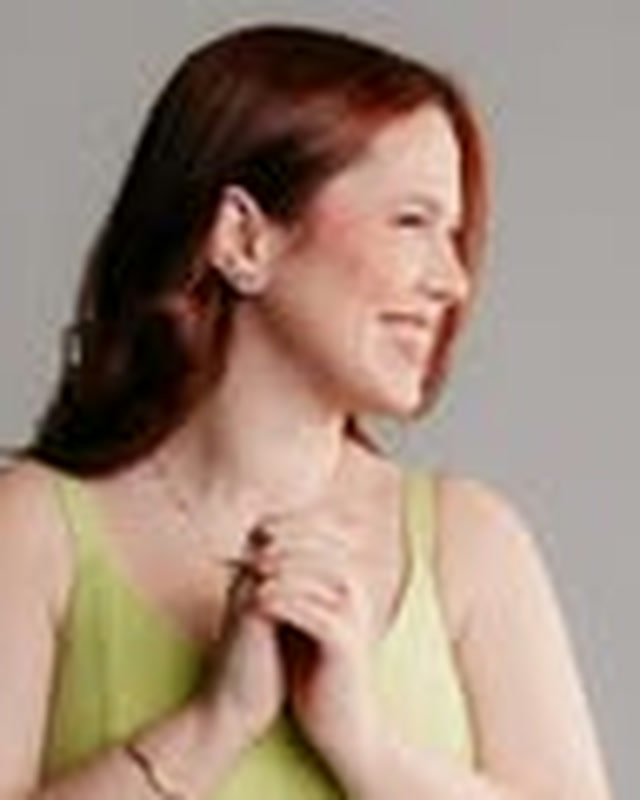
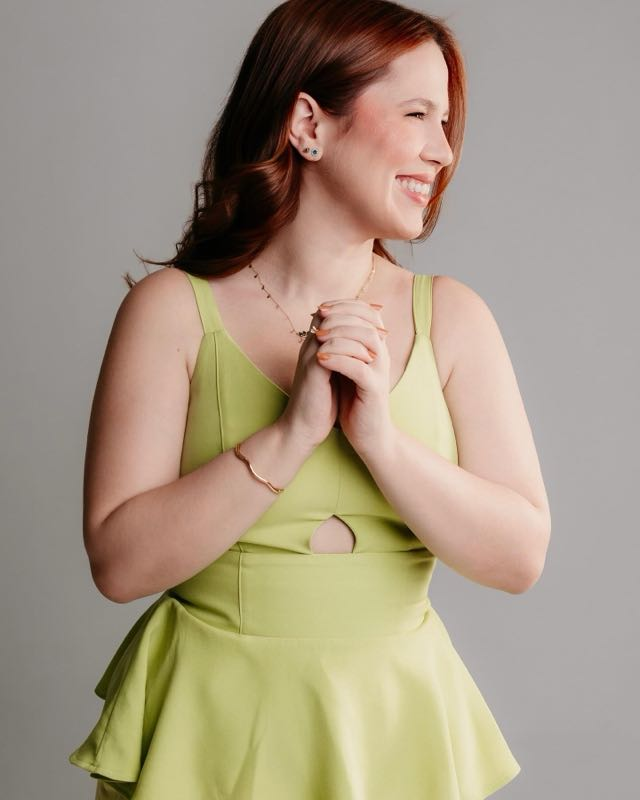
feat: fotos de professores do lote out/26 e novo corpo docente da /reforma-tributaria
Preenche os 8 photoSrc pendentes em dispensa-out26, camara-out26,
comunicacao-out26 e frotas-out26 (fotos que o repositório não tinha, lacuna
registrada no PR do lote de 16/09). Adiciona Willyan Charles de Campos como
3º professor da dispensa-out26 (grid volta ao default de 3 colunas, sem
override em theme.css). Cria a seção "Quem ensina" da /reforma-tributaria
com os 3 professores agora confirmados (Daniel Maurício, Janete Probst
Munhoz, Willian Batista de Oliveira) e corrige a FAQ, que ainda dizia que o
corpo docente estava "em confirmação". Troca a foto da Mayara em /portal
pela versão em resolução real (a anterior era uma ampliação de 150×150).

Nilson e Marcus não foram alterados. Bios de Willyan/Daniel/Janete/Willian
condensadas dos currículos completos enviados pelo Gustavo, sem nenhum fato
fora da fonte.

diff --git a/app/reforma-tributaria/content.tsx b/app/reforma-tributaria/content.tsx
@@ -43,7 +43,14 @@ import Kw from "@/components/lp2/Kw";
    slide de IBS/ICMS (hero-sede.jpg). Hero (texto), datas, reviews, "Como seu
    órgão contrata", FAQ, formId, paginaOrigem e campos do formulário NÃO
    mudaram. `speakers` continua ausente: não há fonte com os professores
-   desta turma. */
+   desta turma.
+
+   ATUALIZAÇÃO DE 17/09/2026: 3 professores confirmados (currículos colados
+   pelo Gustavo) — `speakers` entrou e a FAQ pergunta 1 foi corrigida (ver os
+   comentários datados mais abaixo). Isso também criou public/reforma-
+   tributaria/palestrantes/ — a primeira pasta namespaced desta rota; os
+   assets de ambiente (hero, CTA, galeria) continuam em public/reforma/ por
+   decisão do Gustavo de 03/09/2026, sem mudança. */
 
 /* Os 12 itens da tabela de preços, na ordem do print de 11/09/2026. Os três
    vetores dizem o que cada plano inclui — servem aos cards E à tabela, para as
@@ -253,9 +260,42 @@ export const reformaTributariaContent: EventLpContent = {
     ],
   },
 
-  /* quote / speakers / gallery: desligadas. Sem corpo docente definido — o
-     briefing proíbe explicitamente criar um placeholder de "Quem ensina"
-     (decisão registrada na FAQ, pergunta 1). */
+  /* quote: desligada — sem fonte no briefing.
+
+     speakers (17/09/2026): o briefing original proibia criar um placeholder
+     de "Quem ensina" sem corpo docente confirmado (a FAQ, pergunta 1, dizia
+     "em confirmação"). O Gustavo colou nesta data os currículos de 3
+     professores confirmados (Daniel Maurício, Janete Probst Munhoz e Willian
+     Batista de Oliveira) com as fotos — a seção entra, e a FAQ foi corrigida
+     junto. Bios condensadas no mesmo estilo das outras LPs (instituição em
+     caixa alta · cargo, 2–4 frases de credenciais), sem nenhum fato fora do
+     currículo colado; nenhum dos três tem horas de aula/avaliação Unyflex
+     informadas, por isso essa frase final fica de fora (mesmo padrão da
+     Uanilla em /comunicacao-out26). 3 professores → grid default de 3
+     colunas, sem override em theme.css (mesmo caso de /camara-out26). */
+  speakers: {
+    title: "Quem ensina já fiscaliza e arrecada o tributo que você vai apurar",
+    items: [
+      {
+        name: "Daniel Maurício",
+        institution: "AUDITOR DE TRIBUTOS MUNICIPAIS · PREFEITURA MUNICIPAL DE CURITIBA",
+        photoSrc: "/reforma-tributaria/palestrantes/daniel-mauricio.jpg",
+        bio: "Auditor de Tributos Municipais da Secretaria Municipal de Finanças da Prefeitura Municipal de Curitiba; já foi Diretor do Departamento de Rendas Mobiliárias da mesma secretaria. Graduado em Letras (UFPR), Administração de Empresas (FESP) e Direito (FARESC), com pós-graduações em Gestão Administrativa e Tributária, Gestão de Pessoas e Qualidade no Setor Público e Gestão Pública de Tecnologia da Informação. Integrou o Conselho de Recursos Tributários, a Junta de Julgamento Tributário da Prefeitura de Curitiba e a Câmara Técnica Permanente da ABRASF.",
+      },
+      {
+        name: "Janete Probst Munhoz",
+        institution: "COORDENADORA DE EAD E PÓS-GRADUAÇÃO · CENTRO UNIVERSITÁRIO UNIGUAIRACÁ",
+        photoSrc: "/reforma-tributaria/palestrantes/janete-probst-munhoz.jpg",
+        bio: "Doutora em Administração pela Universidade Positivo (2021), com pesquisa em compras públicas municipais na área da saúde, e mestre em Desenvolvimento Econômico pela UFPR (2009). Especialista em Direito Tributário (AVM Faculdade Integrada) e em Metodologia e Didática do Ensino Superior (UNIVALE), com MBA em Gestão do Conhecimento na Educação Superior (Uniguairacá). Foi Diretora do Departamento de Receita da Prefeitura Municipal de Guarapuava (1997–2004), onde coordenou a modernização dos códigos tributário e de postura; hoje é sócia-administradora da Munhoz Consultoria e Assessoria, com projetos em gestão tributária e finanças públicas municipais.",
+      },
+      {
+        name: "Willian Batista de Oliveira",
+        institution: "AUDITOR FISCAL DE TRIBUTOS MUNICIPAIS · PREFEITURA MUNICIPAL DE CURITIBA",
+        photoSrc: "/reforma-tributaria/palestrantes/willian-batista-de-oliveira.jpg",
+        bio: "Auditor Fiscal de Tributos Municipais na Prefeitura Municipal de Curitiba e gerente de Fiscalização do Departamento de Rendas Mobiliárias (ISS). Mestre em Planejamento e Governança Pública (UTFPR) e em Administração Autárquica (Instituto Politécnico de Bragança, Portugal); pós-graduado em Administração Pública e em Auditoria e Controladoria (Unicesumar). Membro do Conselho Municipal de Contribuintes e suplente na Câmara Técnica Permanente da ABRASF; professor na Especialização em Direito Administrativo da UENP/PR e instrutor de formação de auditores fiscais municipais.",
+      },
+    ],
+  },
 
   /* Galeria (16/09/2026, pedido do Bruno: mais fotos da sede). Doze fotos
      reais já no repositório, reprocessadas a 1000px: sala de aula da sede
@@ -496,7 +536,7 @@ export const reformaTributariaContent: EventLpContent = {
     items: [
       {
         q: "Quem são os professores?",
-        a: "O corpo docente da turma está em confirmação e será publicado nesta página. A programação já está fechada; ao receber a proposta, o consultor informa os nomes assim que confirmados.",
+        a: "Daniel Maurício, Janete Probst Munhoz e Willian Batista de Oliveira — as bios completas estão na seção \"Quem ensina\" desta página.",
       },
       {
         q: "A reforma só vale em 2033. Por que fazer o curso agora?",

diff --git a/app/comunicacao-out26/content.tsx b/app/comunicacao-out26/content.tsx
@@ -331,8 +331,9 @@ export const comunicacaoOut26Content: EventLpContent = {
 
   /* Palestrantes em destaque, ANTES da programação (placement). Os três são
      de Câmara, Prefeitura e eventos do setor — é o argumento do seminário.
-     Nenhum tem foto no repositório → monograma (lacuna registrada na PR).
-     Uanilla: sem nota e sem horas (base de 3 h no documento). */
+     Fotos dos três no repositório desde 17/09/2026 (antes ficavam com o
+     monograma — lacuna registrada na PR). Uanilla: sem nota e sem horas
+     (base de 3 h no documento). */
   speakers: {
     title: "Quem ensina faz comunicação pública todo dia",
     lead: "Câmara Municipal, Prefeitura e os maiores eventos de contratações públicas do país: os três palestrantes operam o que ensinam.",
@@ -341,19 +342,19 @@ export const comunicacaoOut26Content: EventLpContent = {
       {
         name: "Michelle Stival",
         institution: "DIRETORIA DE COMUNICAÇÃO · CÂMARA MUNICIPAL DE CURITIBA",
-        photoSrc: null,
+        photoSrc: "/comunicacao-out26/palestrantes/michelle-stival.jpg",
         bio: "Jornalista (PUC-PR), pós-graduada em Gestão da Comunicação Organizacional (FAE). Desde 2009 na Diretoria de Comunicação da Câmara Municipal de Curitiba, onde coordena as mídias sociais; desde 2019 lidera a presença do Legislativo curitibano no Instagram, TikTok, X e YouTube e idealizou o CMC Podcasts. O modelo de comunicação pública que ajudou a construir virou referência nacional, replicado por câmaras de todo o país. Passagens pela Secretaria de Segurança Pública do Paraná e por jornais, revistas, rádio e TV; seis prêmios Sangue Bom. 21+ horas de aula na Unyflex, avaliação 9,6.",
       },
       {
         name: "Uanilla Marcela dos Santos Pivetta",
         institution: "DIRETORIA DE COMUNICAÇÃO · PREFEITURA DE ITAPOÁ/SC",
-        photoSrc: null,
+        photoSrc: "/comunicacao-out26/palestrantes/uanilla-marcela-dos-santos-pivetta.jpg",
         bio: "Jornalista com mais de 15 anos em comunicação, conteúdo, audiovisual, marketing político e comunicação institucional. Diretora de Comunicação da Prefeitura de Itapoá (SC), onde lidera equipe multidisciplinar e responde pelo planejamento e pela gestão da comunicação institucional e digital do município.",
       },
       {
         name: "Max Miller Candido Alves Pereira",
         institution: "DIRETOR DE DESENVOLVIMENTO INSTITUCIONAL · AMPLA E CONECTA",
-        photoSrc: null,
+        photoSrc: "/comunicacao-out26/palestrantes/max-miller-candido-alves-pereira.jpg",
         bio: "Comunicador, professor e coordenador técnico-científico de eventos em mais de 15 áreas da gestão pública. Articulista em publicidade oficial e contratação de serviços de comunicação (agências, comunicação digital, contratação direta e credenciamento); um dos idealizadores da Maratona das Contratações Públicas. Marketing com ênfase em Digital & Data Science, Personal Branding (ESPM). Coautor de “Contratações nos Sistemas: Perspectivas e Desafios” (JML, 2025) e autor de “Descomplicando a Elaboração de Editais para Licitações de Serviços Publicitários” (2022). 15+ horas de aula na Unyflex, avaliação 9,2.",
       },
     ],

diff --git a/app/dispensa-out26/content.tsx b/app/dispensa-out26/content.tsx
@@ -256,25 +256,31 @@ export const dispensaOut26Content: EventLpContent = {
     ],
   },
 
-  /* Bancada com 2 professores (documento 1). Sem foto no repositório para
-     nenhum dos dois → monograma do template (não usar foto anônima do
-     catálogo em professor nomeado). Bios reescritas em até 4 linhas com os
-     fatos do documento; nota e horas na última frase. O grid de 3 colunas
-     vira 2 via theme.css. */
+  /* Bancada com 3 professores (documento 1 + Willyan, currículo colado pelo
+     Gustavo em 17/09/2026). Fotos dos três no repositório — grid default de
+     3 colunas (o override para 2 colunas saiu do theme.css). Bios reescritas
+     em até 4 linhas com os fatos da fonte; nota e horas na última frase
+     quando a fonte traz esse dado (Willyan não traz). */
   speakers: {
     title: "Quem ensina emite o parecer e opera a plataforma",
     items: [
       {
         name: "José Augusto Alexandria Alves",
         institution: "PROCURADOR · CÂMARA MUNICIPAL DE CURITIBA",
-        photoSrc: null,
+        photoSrc: "/dispensa-out26/palestrantes/jose-augusto-alexandria-alves.jpg",
         bio: "Procurador efetivo da Câmara Municipal de Curitiba, atua em licitações e contratos administrativos. Pós-graduado em Direito Público, Trabalho e Previdenciário (Anhanguera-Uniderp), graduado em Direito (Universidade de Cuiabá). 552+ horas de aula na Unyflex, avaliação 9,6.",
       },
       {
         name: "Aluísio Henrique Ferreira",
         institution: "PROCURADOR JURÍDICO · CÂMARA MUNICIPAL DE NOVO ITACOLOMI/PR",
-        photoSrc: null,
+        photoSrc: "/dispensa-out26/palestrantes/aluisio-henrique-ferreira.jpg",
         bio: "Advogado e procurador jurídico da Câmara Municipal de Novo Itacolomi/PR. Doutorando em Direito do Trabalho (Universidad de Buenos Aires), mestre em Ciências Jurídicas (CESUMAR), especialista em Direito Constitucional, Penal e Processual Penal, Eleitoral e Trabalhista. Professor e coordenador de cursos de Direito na FAP, FAFIMAN e UNOPAR entre 2005 e 2021; autor e coautor de obras jurídicas. 36+ horas de aula na Unyflex, avaliação 9,5.",
+      },
+      {
+        name: "Willyan Charles de Campos",
+        institution: "PROCURADOR JURÍDICO · CÂMARA DE VEREADORES DE ITAPEMA/SC",
+        photoSrc: "/dispensa-out26/palestrantes/willyan-charles-de-campos.jpg",
+        bio: "Procurador jurídico de carreira da Câmara de Vereadores de Itapema/SC, advogado com oito anos de atuação no setor público. Mestre em Gestão de Políticas Públicas (UNIVALI), especialista em Direito Público e Direito Penal. Elabora pareceres jurídicos, minutas legislativas e contratos administrativos, conduz processos licitatórios e representa a instituição junto ao Ministério Público, Tribunal de Contas e Poder Judiciário.",
       },
     ],
   },

diff --git a/app/camara-out26/content.tsx b/app/camara-out26/content.tsx
@@ -232,23 +232,23 @@ export const camaraOut26Content: EventLpContent = {
     ],
   },
 
-  /* Bancada com 3 professores (documento 2). Só o Nilson tem foto no
-     repositório (a mesma da /patrimonio e /portal); Marlon e Aurenilson ficam
-     com o monograma do template. Bios em até 4 linhas com os fatos do
-     documento; nota e horas na última frase. */
+  /* Bancada com 3 professores (documento 2). Fotos dos três no repositório
+     desde 17/09/2026 (Marlon e Aurenilson chegaram junto com o lote de fotos
+     do Gustavo — antes ficavam com o monograma do template). Bios em até 4
+     linhas com os fatos do documento; nota e horas na última frase. */
   speakers: {
     title: "Quem ensina audita e contabiliza o orçamento municipal",
     items: [
       {
         name: "Marlon Stafin",
         institution: "COORDENADOR DE AUDITORIA · GOVERNO DO ESTADO DO PARANÁ",
-        photoSrc: null,
+        photoSrc: "/camara-out26/palestrantes/marlon-stafin.jpg",
         bio: "Coordenador de auditoria no Governo do Estado do Paraná desde 2019: implementou o Internal Audit Capability Model (IA-CM), assessorou o Controlador-Geral do Estado, coordenou o GT CGE-SESA (2022–2023) e desde 2024 lidera a auditoria do Projeto PR Eficiente. Administração (FAE), três MBAs pela UNIBF e Contabilidade em andamento (Unifatecie); de 1995 a 2014 no setor privado, até gerente administrativo. 63+ horas de aula na Unyflex, avaliação 9,6.",
       },
       {
         name: "Aurenilson Cipriano",
         institution: "CONTADOR EFETIVO · MUNICÍPIO DE ANDIRÁ/PR",
-        photoSrc: null,
+        photoSrc: "/camara-out26/palestrantes/aurenilson-cipriano.jpg",
         bio: "Contador efetivo do Município de Andirá/PR desde 2014. Ciências Contábeis (UENP) e Gestão Pública (IFPR); especialista em Administração e Finanças e em Gestão Pública (UNINA). Presidente da APEPREV (2017/2019), diretor-presidente do FUNPESPA (2011/2019) e professor de Administração e Ciências Contábeis na FACCREI (2017/2022). Experiência em orçamento, finanças e gestão pública com ênfase em RPPS. 228+ horas de aula na Unyflex, avaliação 9,7.",
       },
       {

diff --git a/app/frotas-out26/content.tsx b/app/frotas-out26/content.tsx
@@ -265,17 +265,18 @@ export const frotasOut26Content: EventLpContent = {
     ],
   },
 
-  /* Bancada com 4 professores (documento 3), na ordem do documento. Nilson e
-     Marcus têm foto no repositório (as mesmas da /patrimonio); Everton e José
-     Augusto ficam com o monograma. O grid de 3 colunas vira 2×2 via
-     theme.css. José Augusto: mesma bio da /dispensa-out26. */
+  /* Bancada com 4 professores (documento 3), na ordem do documento. Os
+     quatro têm foto no repositório desde 17/09/2026 (Everton e José Augusto
+     chegaram junto com o lote de fotos do Gustavo — antes ficavam com o
+     monograma). O grid de 3 colunas vira 2×2 via theme.css. José Augusto:
+     mesma bio e mesma foto da /dispensa-out26. */
   speakers: {
     title: "Quem ensina implantou a gestão de frota em dezenas de prefeituras",
     items: [
       {
         name: "Everton Rosa de Jesus",
         institution: "GESTÃO DE FROTAS PÚBLICAS · 18 ANOS",
-        photoSrc: null,
+        photoSrc: "/frotas-out26/palestrantes/everton-rosa-de-jesus.jpg",
         bio: "Administrador, MBA Executivo em Gestão de Negócios Internacionais (Unicesusc e Universidade Lusófona) e MBA em Value Investing (AGF Grupo Barsi). Na Secretaria de Estado da Administração de SC (2008–2019) desenvolveu o sistema GVE, licenciado ao Executivo estadual; desde 2019 orienta rotinas de gestão de frota em cerca de 40 prefeituras de SC e uma do RS. 18 anos em administração de veículos públicos. 27+ horas de aula na Unyflex, avaliação 9,8.",
       },
       {
@@ -293,7 +294,7 @@ export const frotasOut26Content: EventLpContent = {
       {
         name: "José Augusto Alexandria Alves",
         institution: "PROCURADOR · CÂMARA MUNICIPAL DE CURITIBA",
-        photoSrc: null,
+        photoSrc: "/frotas-out26/palestrantes/jose-augusto-alexandria-alves.jpg",
         bio: "Procurador efetivo da Câmara Municipal de Curitiba, atua em licitações e contratos administrativos. Pós-graduado em Direito Público, Trabalho e Previdenciário (Anhanguera-Uniderp), graduado em Direito (Universidade de Cuiabá). 552+ horas de aula na Unyflex, avaliação 9,6.",
       },
     ],

diff --git a/app/portal/content.tsx b/app/portal/content.tsx
@@ -338,12 +338,10 @@ export const portalContent: EventLpContent = {
      4:5, 640×800, o padrão dos retratos do repo. As de Nilson e Marcus são
      cópia byte a byte dos recortes da /patrimonio (mesma foto de origem; os
      assets são namespaced por LP, então copiar é o certo, não referenciar a
-     pasta de outra rota). A da Mayara é INÉDITA e veio em 150×150: é um
-     recorte 4:5 (96×120 em x=36) ampliado 6,7× — fica visivelmente mais mole
-     que as outras duas, e o enquadramento foi fechado no rosto para casar com
-     a escala dos outros dois cards. Entrar assim foi decisão do Gustavo.
-     TROCAR quando a Emily mandar um arquivo maior: mesmo nome de arquivo,
-     nenhuma mudança de código. */
+     pasta de outra rota). A da Mayara TROCOU em 17/09/2026: o arquivo INÉDITO
+     de 150×150 (ampliação 6,7×, dívida registrada em memória) foi substituído
+     por uma foto em resolução real mandada pelo Gustavo — mesmo nome de
+     arquivo, nenhuma mudança de código. */
   speakers: {
     title: "Quem ensina responde por isso na prática",
     items: [

diff --git a/app/dispensa-out26/theme.css b/app/dispensa-out26/theme.css
@@ -33,16 +33,6 @@
   }
 }
 
-/* Bancada com só 2 professores: o grid default de 3 colunas no desktop
-   deixaria uma célula órfã. Duas colunas com largura contida e centradas. */
-@media (min-width: 1000px) {
-  .lpdi-theme .lp2-speakers__grid {
-    grid-template-columns: repeat(2, 1fr);
-    max-width: 860px;
-    margin-inline: auto;
-  }
-}
-
 /* Navbar: centraliza os links entre logo e CTA no desktop. <800px o template
    já esconde os links. */
 @media (min-width: 800px) {
